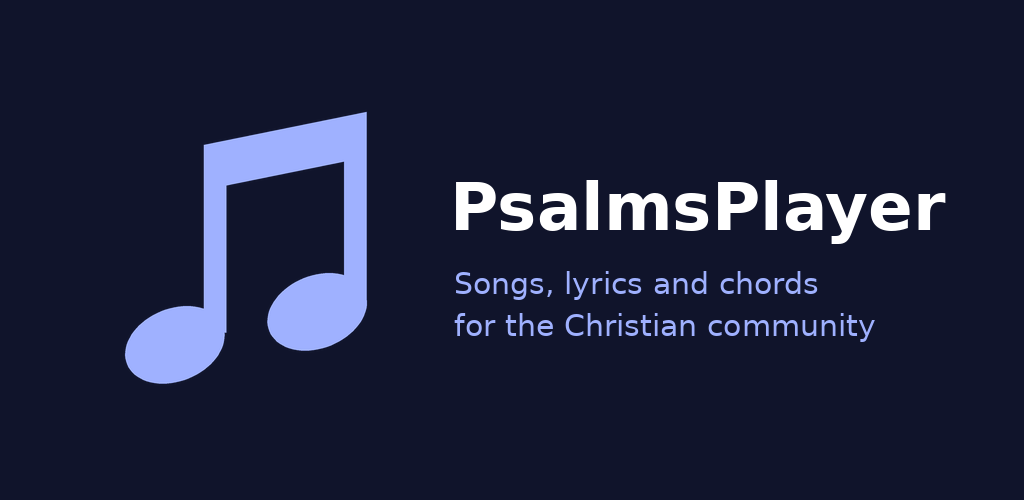
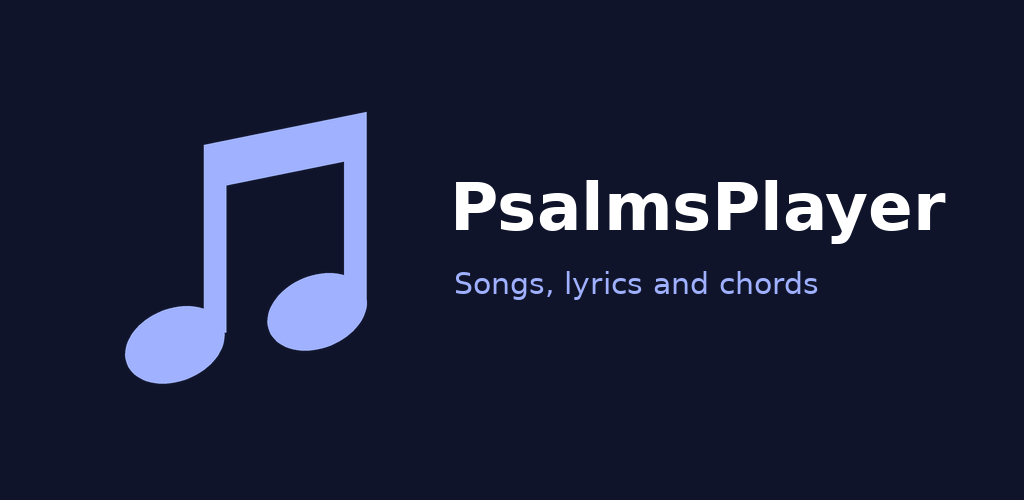
Neutral wording: no "Christian community", church or service copy
- Site description, About pages, welcome slides, sign-in line, Terms and package description no longer say who the app is for.
- Setlist dates and hints say "date" and "the stage" instead of "service".
- Play listing text, the feature graphic and its generator are neutral too.

Claude-Session: https://claude.ai/code/session_01KMsPbPhH9SrLCR2arFE6wb

Changed region(s): [[0.4375, 0.63, 0.8438, 0.69]]

diff --git a/e2e/library.spec.ts b/e2e/library.spec.ts
@@ -17,7 +17,7 @@ test('make a setlist, add songs from their pages, reorder, choose a key, rename,
   const dialog = page.getByRole('dialog', { name: 'New list' });
   await dialog.getByLabel('New list name').fill('Sunday service');
   await dialog.getByLabel('Type').selectOption('setlist');
-  await dialog.getByLabel('Service date (optional)').fill('2030-01-06');
+  await dialog.getByLabel('Date (optional)').fill('2030-01-06');
   await dialog.getByRole('button', { name: 'Create list' }).click();
   await expect(page).toHaveURL(/\/library\/[0-9a-f-]{36}$/);
   await expect(page.getByRole('heading', { name: 'Sunday service', level: 1 })).toBeVisible();
@@ -66,7 +66,7 @@ test('make a setlist, add songs from their pages, reorder, choose a key, rename,
 
   // Rename and change the date.
   await page.getByLabel('Name', { exact: true }).fill('Sunday 6 January');
-  await page.getByLabel('Service date').fill('2030-01-13');
+  await page.getByLabel('Date', { exact: true }).fill('2030-01-13');
   await page.getByRole('button', { name: 'Save' }).click();
   await expect(page.getByRole('heading', { name: 'Sunday 6 January', level: 1 })).toBeVisible();
   await expect(page.getByText('Setlist · 2030-01-13 · 2 songs')).toBeVisible();

diff --git a/src/components/WelcomeSlides.tsx b/src/components/WelcomeSlides.tsx
@@ -6,10 +6,10 @@ import { APP_NAME } from '@/lib/brand';
 import { WELCOME_COOKIE } from '@/lib/native-app';
 
 const SLIDES = [
-  { Icon: LyricsIcon, title: 'Songs for your community', text: 'Find songs in your language, read the lyrics, and see the chords when the writer shares them.' },
+  { Icon: LyricsIcon, title: 'Songs in your language', text: 'Find songs in your language, read the lyrics, and see the chords when the writer shares them.' },
   { Icon: PlayIcon, title: 'A player that stays with you', text: 'The player stays on every page. Shuffle, repeat, and slide to any moment in a song.' },
-  { Icon: HeartIcon, title: 'Your own library', text: 'Like songs, follow artists, and make playlists and setlists for home, church and services.' },
-  { Icon: StageIcon, title: 'Stage mode for services', text: 'Big, clear lyrics for the service, and your screen stays awake while you sing.' },
+  { Icon: HeartIcon, title: 'Your own library', text: 'Like songs, follow artists, and make playlists and setlists.' },
+  { Icon: StageIcon, title: 'Stage mode', text: 'Big, clear lyrics on stage, and your screen stays awake while you sing.' },
 ];
 
 /**

diff --git a/src/app/(app)/library/NewListForm.tsx b/src/app/(app)/library/NewListForm.tsx
@@ -39,12 +39,12 @@ export default function NewListForm({ userId }: { userId: string }) {
         <label htmlFor="list-kind">Type</label>
         <select id="list-kind" className="input" value={kind} onChange={(e) => setKind(e.target.value as 'playlist' | 'setlist')}>
           <option value="playlist">Playlist (for listening)</option>
-          <option value="setlist">Setlist (for a service, with Stage mode)</option>
+          <option value="setlist">Setlist (an ordered set for the stage, with Stage mode)</option>
         </select>
       </div>
       {kind === 'setlist' ? (
         <div className="field">
-          <label htmlFor="list-date">Service date (optional)</label>
+          <label htmlFor="list-date">Date (optional)</label>
           <input id="list-date" className="input" type="date" value={date} onChange={(e) => setDate(e.target.value)} />
         </div>
       ) : null}

diff --git a/src/app/(legal)/terms/page.tsx b/src/app/(legal)/terms/page.tsx
@@ -14,7 +14,7 @@ export default function TermsPage() {
 
       <h2>Using the site</h2>
       <ul>
-        <li>Use {APP_NAME} for your own worship, practice and services.</li>
+        <li>Use {APP_NAME} for your own listening, practice and performances.</li>
         <li>Songs, lyrics, chords and recordings belong to their writers and owners and are shown with their permission. Do not copy them out of the site, sell them or share them publicly. The one copy the app makes for you is the download described below.</li>
         <li>Do not try to inflate listening time or like counts, run scripts against the site, or look for ways around its limits.</li>
         <li>Do not try to reach another person&apos;s account or the admin pages.</li>

diff --git a/src/app/(legal)/about/page.tsx b/src/app/(legal)/about/page.tsx
@@ -9,8 +9,8 @@ export default function AboutPage() {
     <>
       <h1>{APP_NAME}</h1>
       <p>
-        {APP_NAME} is a songbook and music player for the Christian community. It has lyrics and chords for services and practice, a
-        player for songs and recordings, and lists you can build for a service.
+        {APP_NAME} is a songbook and music player. It has lyrics and chords, a player for songs and recordings, and lists you can
+        build for any occasion.
       </p>
       <p>
         Songs and recordings appear with the permission of the people who wrote and own them. You sign in with your Google account to

diff --git a/src/lib/reference-form.ts b/src/lib/reference-form.ts
@@ -40,7 +40,7 @@ export function validateRegion(i: { code: string; name: string }): string | null
 
 export function validateTag(i: { code: string; label: string }, single: string): string | null {
   const code = i.code.trim();
-  if (!/^[a-z0-9]+(-[a-z0-9]+)*$/.test(code) || code.length > 40) return `A ${single} code uses lowercase letters, numbers and single hyphens, for example sunday-service.`;
+  if (!/^[a-z0-9]+(-[a-z0-9]+)*$/.test(code) || code.length > 40) return `A ${single} code uses lowercase letters, numbers and single hyphens, for example slow-songs.`;
   return nameProblem(i.label, 'label');
 }
 

diff --git a/src/app/(app)/settings/about/page.tsx b/src/app/(app)/settings/about/page.tsx
@@ -31,7 +31,7 @@ export default async function AboutPage() {
       <SettingsTop title="About" />
       <div className="card section">
         <p style={{ margin: 0, fontWeight: 600 }}>{APP_NAME}</p>
-        <p className="muted" style={{ margin: '6px 0 0' }}>Songs, lyrics and chords for the Christian community. Listen, follow the words, and take a setlist on stage.</p>
+        <p className="muted" style={{ margin: '6px 0 0' }}>Songs, lyrics and chords. Listen, follow the words, and take a setlist on stage.</p>
       </div>
       <ContactList contacts={contacts} />
     </div>

diff --git a/src/app/(app)/library/page.tsx b/src/app/(app)/library/page.tsx
@@ -86,7 +86,7 @@ export default async function LibraryPage({ searchParams }: { searchParams: Prom
             ))}
             <NewListButton userId={user.id} />
           </div>
-          {lists.length === 0 ? <p className="muted small list-hint">No lists yet. Make a playlist to listen, or a setlist for a service.</p> : null}
+          {lists.length === 0 ? <p className="muted small list-hint">No lists yet. Make a playlist to listen, or a setlist for the stage.</p> : null}
         </section>
       ) : null}
 

diff --git a/src/app/(app)/library/ListView.tsx b/src/app/(app)/library/ListView.tsx
@@ -182,7 +182,7 @@ export default function ListView({ kind, id, title, serviceDate, rows: initialRo
               </div>
               {isSetlist ? (
                 <div className="field">
-                  <label htmlFor="edit-date">Service date</label>
+                  <label htmlFor="edit-date">Date</label>
                   <input id="edit-date" className="input" type="date" value={date} onChange={(e) => setDate(e.target.value)} />
                 </div>
               ) : null}

diff --git a/src/app/login/LoginForm.tsx b/src/app/login/LoginForm.tsx
@@ -83,7 +83,7 @@ export default function LoginForm({ next, callbackFailed, deleted = false }: { n
   return (
     <>
       <h1>Welcome to {APP_NAME}</h1>
-      <p className="signin-sub">Songs, lyrics and chords for your community.</p>
+      <p className="signin-sub">Songs, lyrics and chords.</p>
 
       {error ? <p className="error" role="alert">{error}</p> : null}
       {deleted && info ? <p className="ok" role="status">{info}</p> : null}

diff --git a/src/app/layout.tsx b/src/app/layout.tsx
@@ -8,7 +8,7 @@ const sans = Open_Sans({ subsets: ['latin'], variable: '--font-sans', display: '
 
 export const metadata: Metadata = {
   title: { default: APP_NAME, template: `%s · ${APP_NAME}` },
-  description: 'Songs, lyrics and chords for the Christian community.',
+  description: 'Songs, lyrics and chords, with a music player.',
   robots: { index: false, follow: false },
 };
 

diff --git a/scripts/android/make-icons.py b/scripts/android/make-icons.py
@@ -100,6 +100,5 @@ except OSError:
 assert dr.textlength('PsalmsPlayer', font=f1) < W - 450 - 40, 'title does not fit'
 dr.text((450, 168), 'PsalmsPlayer', font=f1, fill=(255, 255, 255, 255))
 dr.text((454, 266), 'Songs, lyrics and chords', font=f2, fill=ACCENT)
-dr.text((454, 308), 'for the Christian community', font=f2, fill=ACCENT)
 save(fg.convert('RGB'), os.path.join(STORE, 'feature-graphic-1024x500.png'))
 print('icons written')
